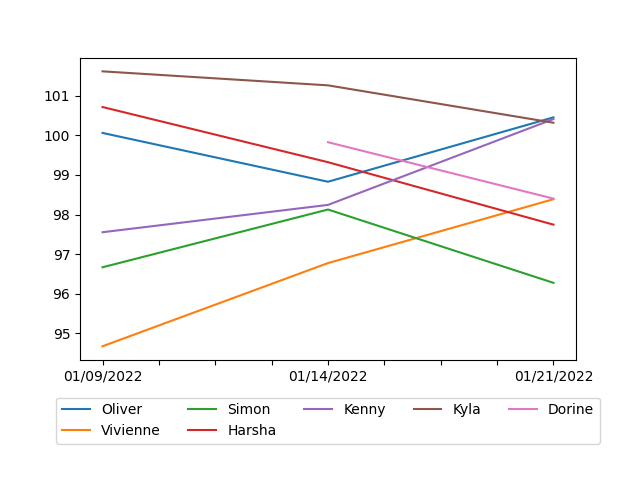
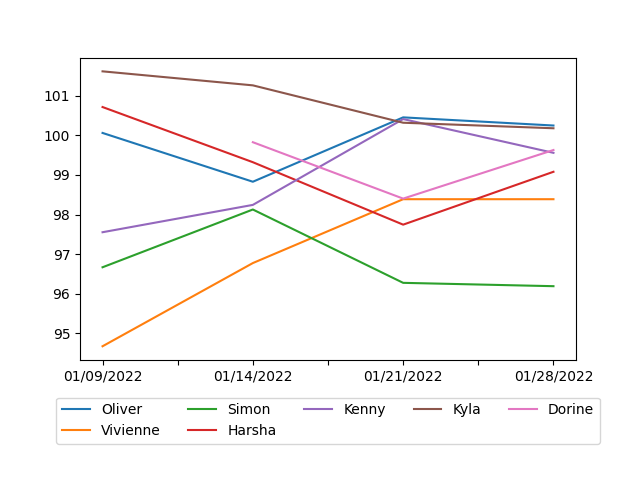
update rankings

diff --git a/README.md b/README.md
@@ -5,14 +5,16 @@
 
 | Player | ELO | Wins | Losses | Win % | Best Game |
 | --- | --- | --- | --- | --- | --- |
-| Oliver | 100.45 | 12 | 7 | 0.63 | Bang |
-| Kenny | 100.41 | 9 | 6 | 0.60 | Codenames |
-| Kyla | 100.32 | 11 | 6 | 0.65 | Codenames |
-| Dorine | 98.40 | 6 | 6 | 0.50 | 7 Wonders |
+| Oliver | 100.25 | 15 | 10 | 0.60 | Bang |
+| Kyla | 100.18 | 14 | 9 | 0.61 | Avalon |
+| Dorine | 99.63 | 10 | 8 | 0.56 | 7 Wonders |
+| Kenny | 99.56 | 11 | 10 | 0.52 | Codenames |
+| Harsha | 99.08 | 12 | 13 | 0.48 | Exploding Kittens |
 | Vivienne | 98.39 | 8 | 11 | 0.42 | Wavelength |
-| Harsha | 97.75 | 8 | 11 | 0.42 | Coup |
+| Nat | 98.09 | 2 | 3 | 0.40 | Bang |
 | Dan | 96.38 | 2 | 4 | 0.33 | Wavelength |
-| Simon | 96.28 | 5 | 13 | 0.28 | Secret Hitler |
+| Simon | 96.19 | 6 | 17 | 0.26 | Secret Hitler |
+| Lucy | 96.02 | 1 | 4 | 0.20 | Avalon |
 | Nicholas | 94.90 | 1 | 2 | 0.33 | Wavelength |
 | Nancy | 94.72 | 2 | 5 | 0.29 | Secret Hitler |
 | Wing | 93.90 | 1 | 4 | 0.20 | Wavelength |
@@ -37,15 +39,17 @@
 
 | Player | ELO | Wins | Losses | Win % |
 | --- | --- | --- | --- | --- |
-| Simon | 104.40  | 4 | 1 | 0.80 |
-| Kyla | 103.95  | 5 | 1 | 0.83 |
-| Harsha | 101.71  | 4 | 2 | 0.67 |
-| Oliver | 101.28  | 4 | 2 | 0.67 |
-| Dorine | 100.28  | 2 | 1 | 0.67 |
+| Nat | 104.16  | 1 | 0 | 1.00 |
+| Harsha | 102.35  | 5 | 2 | 0.71 |
+| Simon | 102.17  | 4 | 2 | 0.67 |
+| Kyla | 102.12  | 5 | 2 | 0.71 |
+| Oliver | 102.01  | 5 | 2 | 0.71 |
+| Dorine | 101.66  | 3 | 1 | 0.75 |
 | Vivienne | 99.76  | 3 | 3 | 0.50 |
+| Kenny | 98.62  | 2 | 3 | 0.40 |
 | Nancy | 97.13  | 2 | 2 | 0.50 |
-| Kenny | 96.33  | 1 | 3 | 0.25 |
 | Dan | 96.17  | 1 | 2 | 0.33 |
+| Lucy | 95.30  | 0 | 1 | 0.00 |
 | Wing | 92.09  | 0 | 3 | 0.00 |
 | Bella | 92.09  | 0 | 3 | 0.00 |
 | Nicholas | 89.97  | 0 | 1 | 0.00 |
@@ -54,13 +58,16 @@
 
 | Player | ELO | Wins | Losses | Win % |
 | --- | --- | --- | --- | --- |
-| Kenny | 110.57  | 2 | 0 | 1.00 |
-| Kyla | 110.57  | 2 | 0 | 1.00 |
-| Oliver | 102.94  | 1 | 1 | 0.50 |
-| Harsha | 99.29  | 1 | 1 | 0.50 |
+| Dorine | 107.40  | 2 | 0 | 1.00 |
+| Kyla | 105.71  | 3 | 1 | 0.75 |
+| Kenny | 105.71  | 3 | 1 | 0.75 |
+| Harsha | 104.82  | 3 | 1 | 0.75 |
+| Oliver | 101.55  | 2 | 2 | 0.50 |
+| Simon | 97.33  | 1 | 3 | 0.25 |
+| Nat | 95.79  | 0 | 2 | 0.00 |
+| Lucy | 95.79  | 0 | 2 | 0.00 |
 | Nancy | 91.97  | 0 | 2 | 0.00 |
 | Vivienne | 91.97  | 0 | 2 | 0.00 |
-| Simon | 91.97  | 0 | 2 | 0.00 |
 
 ### 7 Wonders
 
@@ -93,10 +100,35 @@
 
 | Player | ELO | Wins | Losses | Win % |
 | --- | --- | --- | --- | --- |
-| Oliver | 105.12  | 3 | 1 | 0.75 |
-| Kenny | 104.88  | 3 | 1 | 0.75 |
-| Dorine | 101.08  | 2 | 2 | 0.50 |
+| Nat | 106.70  | 1 | 0 | 1.00 |
+| Oliver | 105.99  | 4 | 1 | 0.80 |
+| Kenny | 102.24  | 3 | 2 | 0.60 |
 | Vivienne | 100.35  | 2 | 2 | 0.50 |
-| Kyla | 96.58  | 1 | 3 | 0.25 |
-| Harsha | 96.39  | 1 | 3 | 0.25 |
-| Simon | 93.73  | 0 | 4 | 0.00 |
+| Kyla | 99.68  | 2 | 3 | 0.40 |
+| Dorine | 99.47  | 2 | 3 | 0.40 |
+| Harsha | 96.03  | 1 | 4 | 0.20 |
+| Lucy | 96.01  | 0 | 1 | 0.00 |
+| Simon | 94.06  | 0 | 5 | 0.00 |
+
+### Exploding Kittens
+
+| Player | ELO | Wins | Losses | Win % |
+| --- | --- | --- | --- | --- |
+| Harsha | 121.28  | 1 | 0 | 1.00 |
+| Oliver | 94.68  | 0 | 1 | 0.00 |
+| Kyla | 94.68  | 0 | 1 | 0.00 |
+| Kenny | 94.68  | 0 | 1 | 0.00 |
+| Dorine | 94.68  | 0 | 1 | 0.00 |
+
+### Avalon
+
+| Player | ELO | Wins | Losses | Win % |
+| --- | --- | --- | --- | --- |
+| Lucy | 110.86  | 1 | 0 | 1.00 |
+| Dorine | 110.86  | 1 | 0 | 1.00 |
+| Kyla | 110.86  | 1 | 0 | 1.00 |
+| Simon | 93.48  | 0 | 1 | 0.00 |
+| Nat | 93.48  | 0 | 1 | 0.00 |
+| Harsha | 93.48  | 0 | 1 | 0.00 |
+| Oliver | 93.48  | 0 | 1 | 0.00 |
+| Kenny | 93.48  | 0 | 1 | 0.00 |
